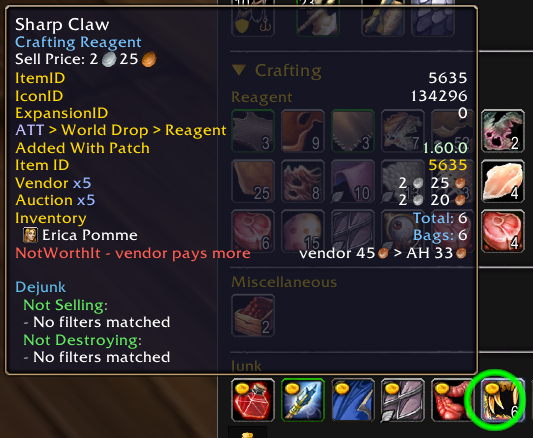
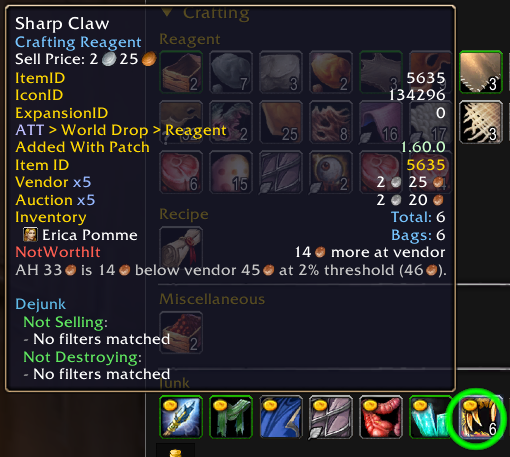
docs: update tooltip screenshots and samples
Recaptured both doc screenshots against the current build: each tooltip
shows its verdict line plus the Shift-held grey calculation line, with
the figures the addon actually rendered (Sharp Claw 14c more at vendor,
Tender Crocolisk Meat 37c more on AH). README sample blocks now match
the captured lines, captions and alt text were rewritten for the new
green-shot item, and the Shift bullet points at the screenshots instead
of carrying its own synthetic example.

diff --git a/README.md b/README.md
@@ -26,15 +26,16 @@ judges items, edit the tunables at the top of `NotWorthIt.lua` and reload.
   bar (the vendor price raised by `NWC_THRESHOLD`):
 
 ```text
-NotWorthIt        4s20c more at vendor
+NotWorthIt        14c more at vendor
+AH 33c is 14c below vendor 45c at 2% threshold (46c).
 ```
 
-![NotWorthIt's red "NotWorthIt" verdict line on a Sharp Claw tooltip, with the amount the vendor route leads by on the right, alongside ATT item details and Dejunk's sections, with Baganator's sorted bag view behind and the offending stack circled in green](doc/not-worth-it.png)
+![NotWorthIt's red "NotWorthIt" verdict line on a Sharp Claw tooltip, with the vendor's lead on the right and, while Shift is held, the grey calculation line below it, alongside ATT item details and Dejunk's sections, with Baganator's bag view behind and the offending stack circled in green](doc/not-worth-it.png)
 
-*Not worth it: Sharp Claw vendors for more than its auction net after the
-house cut and deposit, so the red line appears. The figure on the right is
-the shortfall against the vendor's threshold bar (2% above the vendor price
-by default).*
+*Not worth it: Sharp Claw's auction net, after the house cut and deposit,
+falls short of the vendor's threshold bar, so the red line appears. With
+Shift held, the calculation line spells it out: the 45c vendor price
+becomes a 46c bar under the 2% threshold, and the net lands 14c below it.*
 
 - When the auction wins instead, the tooltip gains a green signature line -
   the addon's own name, with "Not" struck out in red and "WorthIt" in green,
@@ -42,26 +43,24 @@ by default).*
   the vendor:
 
 ```text
-~~Not~~WorthIt        47s more on AH
+~~Not~~WorthIt        37c more on AH
+AH 62c is 37c above vendor 25c at 2% threshold (26c).
 ```
 
-![NotWorthIt's green "~~Not~~WorthIt" signature line on a Stringy Wolf Meat tooltip, with the amount the auction nets above vendoring on the right, alongside ATT item details and Dejunk's sections, with Baganator's sorted bag view behind](doc/worth-it.png)
+![NotWorthIt's green "~~Not~~WorthIt" signature line on a Tender Crocolisk Meat tooltip, with the auction's lead on the right and, while Shift is held, the grey calculation line below it, alongside ATT item details and Dejunk's sections, with the item's bag slot circled in green](doc/worth-it.png)
 
-*Worth it: Stringy Wolf Meat nets more on the auction house than at the
+*Worth it: Tender Crocolisk Meat nets more on the auction house than at the
 vendor, so the green signature line appears - the addon's own name with its
-"Not" struck out.*
+"Not" struck out. With Shift held, the calculation line shows the numbers:
+62c net after the house cut and deposit, 37c above the 25c vendor price.*
 
-- Holding Shift while hovering adds a calculation line under either verdict
-  line, spelling out the numbers the verdict used - the auction net, the
-  same margin figure the verdict line shows, the vendor price, and the
-  vendor bar that price becomes under the threshold (`NWC_THRESHOLD`) in
-  parentheses. The tooltip updates the moment Shift is pressed or
-  released; holding Shift before hovering works too.
-
-```text
-~~Not~~WorthIt        47s more on AH
-AH 92s is 47s above vendor 45s at 2% threshold (45s90c).
-```
+- Holding Shift while hovering adds the grey calculation line under either
+  verdict line - both screenshots above show it - spelling out the numbers
+  the verdict used: the auction net, the same margin figure the verdict
+  line shows, the vendor price, and the vendor bar that price becomes under
+  the threshold (`NWC_THRESHOLD`) in parentheses. The tooltip updates the
+  moment Shift is pressed or released; holding Shift before hovering works
+  too.
 
 - With Baganator installed, the same verdict feeds its junk plugin system, so
   flagged items show the junk coin and sort with the trash. Baganator runs
